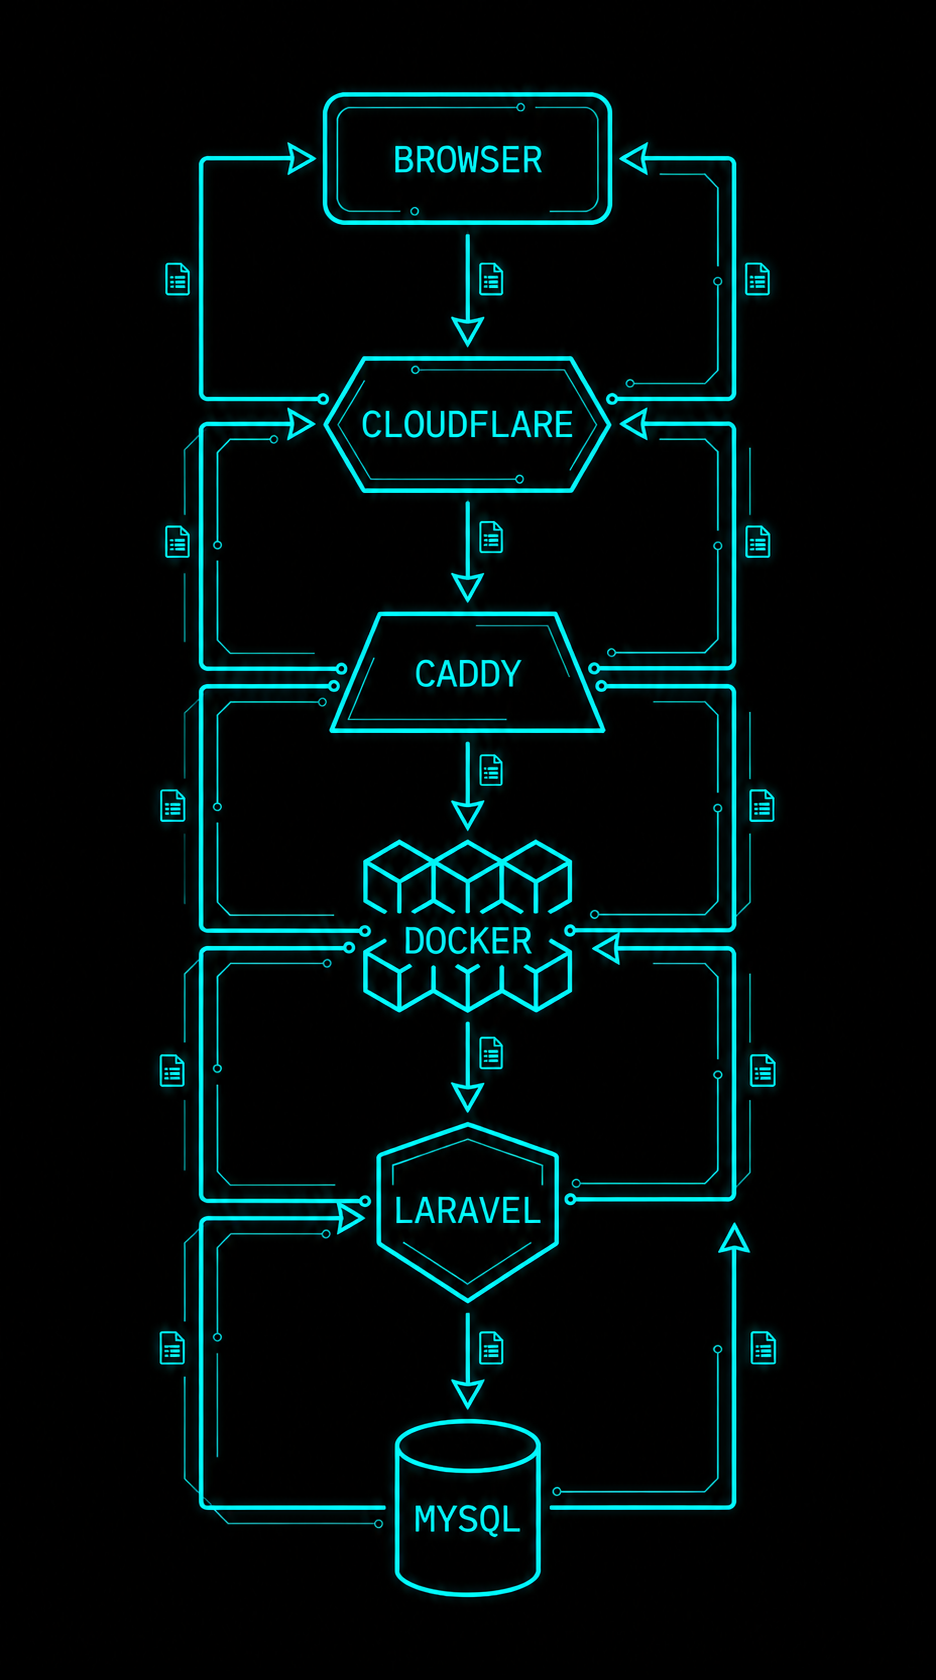
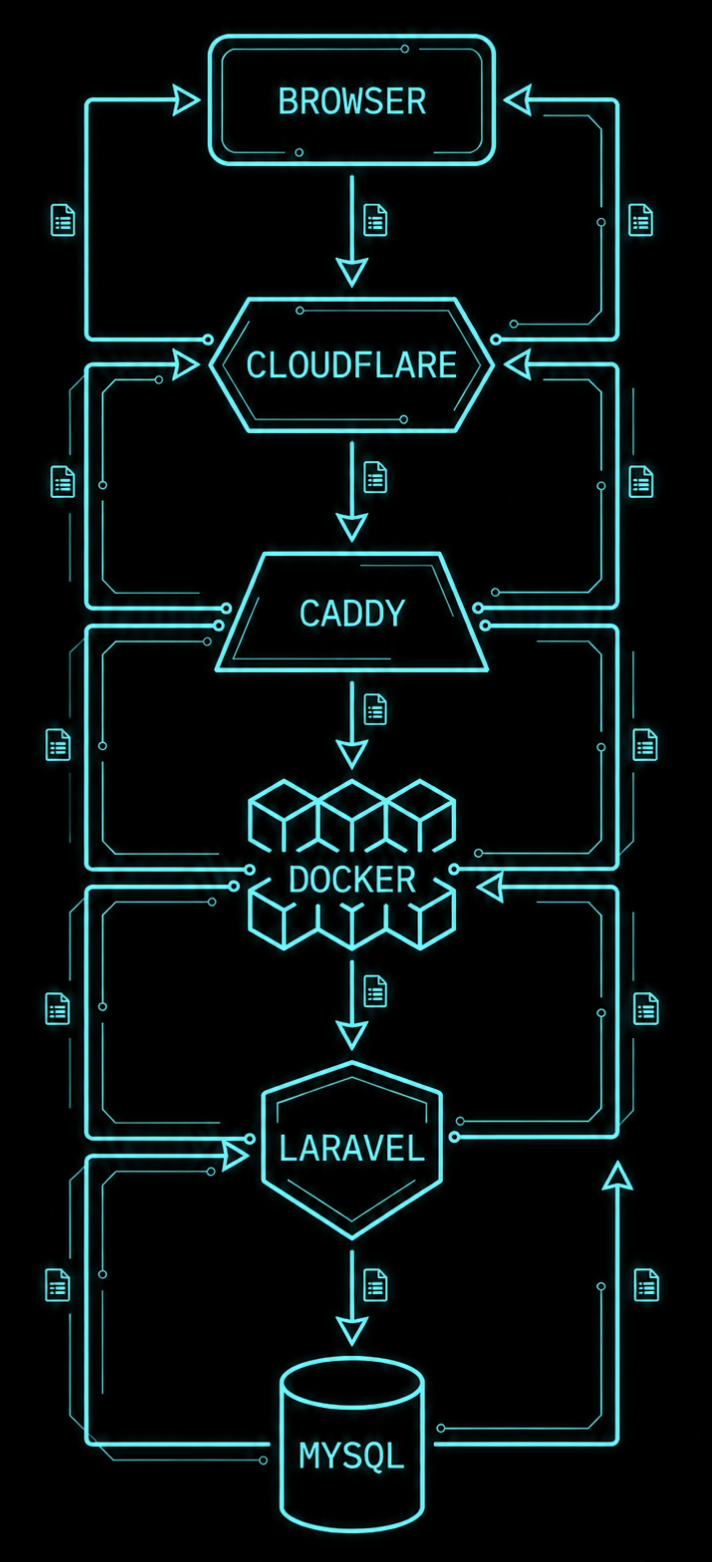
layout tweaks desktop

Changed region(s): [[0.0618, 0.0, 0.927, 0.9834]]

diff --git a/resources/views/components/skills/skills.blade.php b/resources/views/components/skills/skills.blade.php
@@ -1,74 +1,52 @@
-<section
-    id="skills"
-    x-data="{ show: false }"
-    x-intersect.once="show = true"
-    x-bind:class="{ 'is-visible': show }"
-    class="fade-card mx-auto flex max-w-6xl flex-col items-center gap-8 px-5 py-20"
->
+<section id="skills" x-data="{ show: false }" x-intersect.once="show = true" x-bind:class="{ 'is-visible': show }"
+    class="fade-card mx-auto flex  flex-col items-center gap-8 px-5 py-20">
     <h2 class="text-center text-4xl text-white font-mono">
         SKILLS
     </h2>
 
-    <div class="grid w-full grid-cols-2 gap-6 lg:grid-cols-2">
-        <x-skills.cardComponent
-            skill="Frontend"
-            :items="[
-                ['title' => 'HTML', 'icon' => 'skills/html.png'],
-                ['title' => 'CSS', 'icon' => 'skills/css.svg'],
-                ['title' => 'JavaScript', 'icon' => 'skills/js.svg'],
-                ['title' => 'Tailwind', 'icon' => 'skills/tailwind.png'],
-                ['title' => 'Livewire', 'icon' => 'skills/livewire.png'],
-                ['title' => 'Alpine.js', 'icon' => 'skills/alpine.png'],
-            ]"
-        />
+    <div class="grid max-w-6xl grid-cols-2 gap-6 md:grid-cols-2 lg:grid-cols-4">
+        <x-skills.cardComponent skill="Frontend" :items="[
+            ['title' => 'HTML', 'icon' => 'skills/html.png'],
+            ['title' => 'CSS', 'icon' => 'skills/css.svg'],
+            ['title' => 'JavaScript', 'icon' => 'skills/js.svg'],
+            ['title' => 'Tailwind', 'icon' => 'skills/tailwind.png'],
+            ['title' => 'Livewire', 'icon' => 'skills/livewire.png'],
+            ['title' => 'Alpine.js', 'icon' => 'skills/alpine.png'],
+        ]" />
 
-        <x-skills.cardComponent
-            skill="Backend"
-            :items="[
-                ['title' => 'PHP', 'icon' => 'skills/php.png'],
-                ['title' => 'Laravel', 'icon' => 'skills/laravel.ico'],
-                ['title' => 'Eloquent ORM', 'icon' => 'skills/orm.svg'],
-                ['title' => 'Authentication', 'icon' => 'skills/auth.svg'],
-                ['title' => 'REST APIs', 'icon' => 'skills/api.svg'],
-                ['title' => 'Validation', 'icon' => 'skills/form.svg'],
-            ]"
-        />
+        <x-skills.cardComponent skill="Backend" :items="[
+            ['title' => 'PHP', 'icon' => 'skills/php.png'],
+            ['title' => 'Laravel', 'icon' => 'skills/laravel.ico'],
+            ['title' => 'Eloquent ORM', 'icon' => 'skills/orm.svg'],
+            ['title' => 'Authentication', 'icon' => 'skills/auth.svg'],
+            ['title' => 'REST APIs', 'icon' => 'skills/api.svg'],
+            ['title' => 'Validation', 'icon' => 'skills/form.svg'],
+        ]" />
 
-        <x-skills.cardComponent
-            skill="Infrastructure"
-            :items="[
-                ['title' => 'Docker', 'icon' => 'skills/docker.svg'],
-                ['title' => 'Ubuntu Linux', 'icon' => 'skills/Ubuntu.svg'],
-                ['title' => 'MySQL', 'icon' => 'skills/mysql.svg'],
-                ['title' => 'Git', 'icon' => 'skills/git.svg'],
-                ['title' => 'Cloudflare', 'icon' => 'skills/cloudflare.svg'],
-                ['title' => 'Caddy', 'icon' => 'skills/caddy.svg'],
-            ]"
-        />
-
+        <x-skills.cardComponent skill="Infrastructure" :items="[
+            ['title' => 'Docker', 'icon' => 'skills/docker.svg'],
+            ['title' => 'Ubuntu Linux', 'icon' => 'skills/Ubuntu.svg'],
+            ['title' => 'MySQL', 'icon' => 'skills/mysql.svg'],
+            ['title' => 'Git', 'icon' => 'skills/git.svg'],
+            ['title' => 'Cloudflare', 'icon' => 'skills/cloudflare.svg'],
+            ['title' => 'Caddy', 'icon' => 'skills/caddy.svg'],
+        ]" />
         <div
-            id="infrastructure"
             class="flex min-h-90 flex-col overflow-hidden rounded-xl border border-primary/20 bg-black
-                   shadow-[0_0_25px_-15px] shadow-primary"
-        >
-            <h3 class="border-b border-primary/20 bg-black py-3 text-center font-mono text-2xl text-primary">
+                       shadow-[0_0_25px_-15px] shadow-primary">
+            <h3 class="sm:border-b border-primary/20 bg-black py-3 text-center font-mono text-2xl text-primary">
                 Deployment Workflow
             </h3>
 
-            <div class="flex flex-1 items-center justify-center p-5 sm:hidden">
-                <img
-                    class="max-h-80 w-full object-contain scale-130 lg:scale-110"
-                    src="{{ asset('skills/deployment_flow.png') }}"
-                    alt="Deployment workflow"
-                >
+            <div class="flex flex-1 items-center justify-center  sm:hidden">
+                <img class="max-h-80 w-full object-contain scale-110 lg:scale-110"
+                    src="{{ asset('skills/deployment_flow.png') }}" alt="Deployment workflow">
             </div>
-            <div class="hidden sm:flex flex-1  p-5 ">
-                <img
-                    class="max-h-80 w-full object-contain "
-                    src="{{ asset('skills/deployment_flowH.png') }}"
-                    alt="Deployment workflow"
-                >
+            <div class="hidden sm:flex flex-1   ">
+                <img class="max-h-100 w-full object-contain " src="{{ asset('skills/deployment_flow.png') }}"
+                    alt="Deployment workflow">
             </div>
         </div>
+
     </div>
 </section>

diff --git a/resources/views/components/skills/cardComponent.blade.php b/resources/views/components/skills/cardComponent.blade.php
@@ -18,7 +18,7 @@
         </span>
     </div>
 
-    <div class="grid grid-cols-1 sm:grid-cols-2 lg:grid-cols-3 gap-3">
+    <div class="grid grid-cols-1 sm:grid-cols-2 lg:grid-cols-1 gap-3">
         @foreach ($items as $item)
             <div
                 class="group flex items-center justify-between gap-3 rounded-lg border border-neutral/30 bg-black/50 px-2 py-3

diff --git a/resources/views/home.blade.php b/resources/views/home.blade.php
@@ -2,4 +2,5 @@
     <x-home.hero></x-home.hero>
     <x-home.projects></x-home.projects>
     <x-skills.skills></x-skills.skills>
+    <x-infrastructure.infrastructure></x-infrastructure.infrastructure>
 </x-layouts.app>

diff --git a/resources/views/components/infrastructure/infrastructure.blade.php b/resources/views/components/infrastructure/infrastructure.blade.php
@@ -1,0 +1,3 @@
+<section x-data="{ show: false }" x-intersect.once="show = true" x-bind:class="{ 'is-visible': show }" id="infrastructure" class="fade-card">
+   
+</section>
